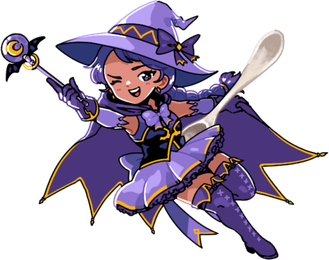
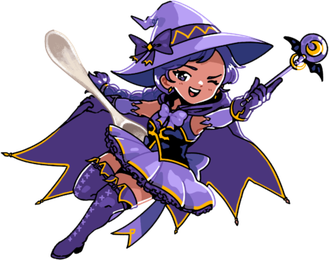
Mirror Ube and Creamia to face right

diff --git a/index.html b/index.html
@@ -54,7 +54,7 @@ addEventListener('resize', fit); fit();
 
 // ---------- assets ----------
 // bump when art changes so phones don't show cached old images
-const ASSET_V = 3;
+const ASSET_V = 4;
 const img = n => { const i = new Image(); i.src = 'assets/' + n + '.png?v=' + ASSET_V; return i; };
 const IMG = { matcha: img('matcha'), strawberry: img('strawberry'), ube: img('ube'), creamia: img('creamia'),
   cow: img('cow'), logo: img('logo'), health: img('potion-health'), mana: img('potion-mana') };
